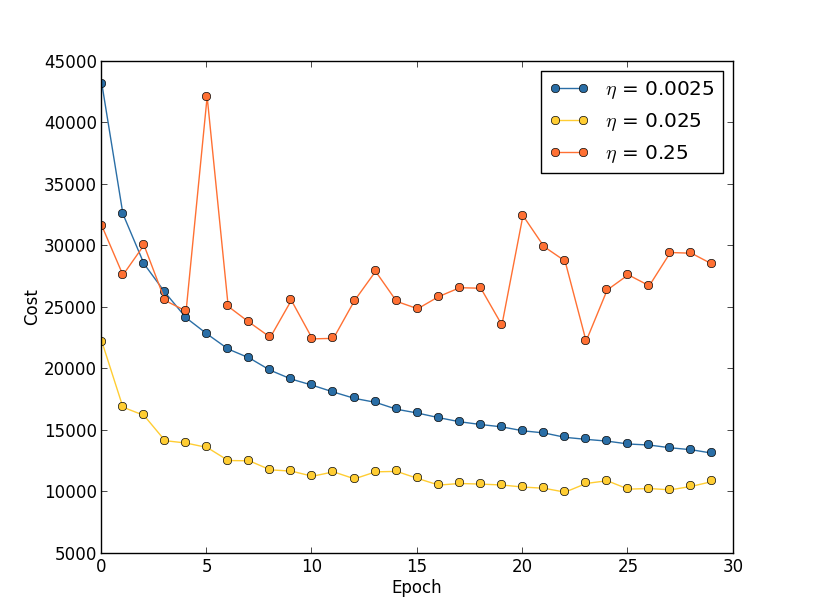
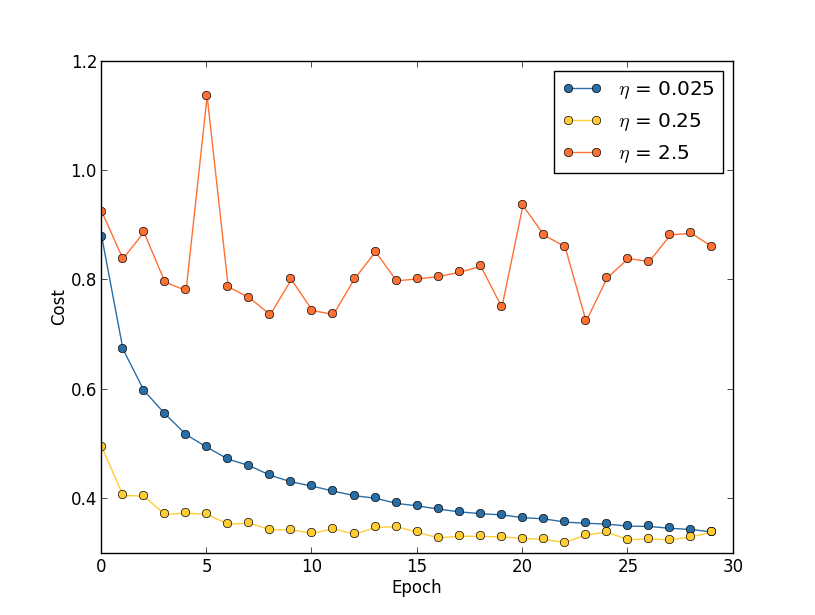
Redo plots for multiple values of eta, and add a second image of the gradient valley (this time without axis labels)

diff --git a/fig/multiple_eta.py b/fig/multiple_eta.py
@@ -9,6 +9,7 @@ three different values for eta.
 
 # Standard library
 import json
+import random
 import sys
 
 # My library
@@ -20,13 +21,8 @@ import network2
 import matplotlib.pyplot as plt
 import numpy as np
 
-# Make results more easily reproducible
-np.random.seed(12345678)
-import random
-random.seed(12345678)
-
 # Constants
-LEARNING_RATES = [0.0025, 0.025, 0.25]
+LEARNING_RATES = [0.025, 0.25, 2.5]
 COLORS = ['#2A6EA6', '#FFCD33', '#FF7033']
 NUM_EPOCHS = 30
 
@@ -40,15 +36,18 @@ def run_networks():
     they can later be used by ``make_plot``.
 
     """
+    # Make results more easily reproducible
+    random.seed(12345678)
+    np.random.seed(12345678)
     training_data, validation_data, test_data = mnist_loader.load_data_wrapper()
     results = []
     for eta in LEARNING_RATES:
         print "\nTrain a network using eta = "+str(eta)
         net = network2.Network([784, 30, 10])
         results.append(
-            net.SGD(training_data, NUM_EPOCHS, 10, eta,
-                    evaluation_data=validation_data, lmbda = 0.001,
-                  monitor_training_cost=True))
+            net.SGD(training_data, NUM_EPOCHS, 10, eta, lmbda=5.0,
+                    evaluation_data=validation_data, 
+                    monitor_training_cost=True))
     f = open("multiple_eta.json", "w")
     json.dump(results, f)
     f.close()

diff --git a/fig/valley2.py b/fig/valley2.py
@@ -1,9 +1,16 @@
-"""
-valley
-~~~~~~
+"""valley2.py
+~~~~~~~~~~~~~
 
 Plots a function of two variables to minimize.  The function is a
-fairly generic valley function."""
+fairly generic valley function.
+
+Note that this is a duplicate of valley.py, but omits labels on the
+axis.  It's bad practice to duplicate in this way, but I had
+considerable trouble getting matplotlib to update a graph in the way I
+needed (adding or removing labels), so finally fell back on this as a
+kludge solution.
+
+"""
 
 #### Libraries
 # Third party libraries
@@ -37,7 +44,5 @@ ax.w_xaxis.set_major_locator(LinearLocator(3))
 ax.w_yaxis.set_major_locator(LinearLocator(3))
 ax.w_zaxis.set_major_locator(LinearLocator(3))
 ax.text(1.79, 0, 1.62, "$C$", fontsize=20)
-ax.text(0.05, -1.8, 0, "$v_1$", fontsize=20)
-ax.text(1.5, -0.25, 0, "$v_2$", fontsize=20)
 
 plt.show()
